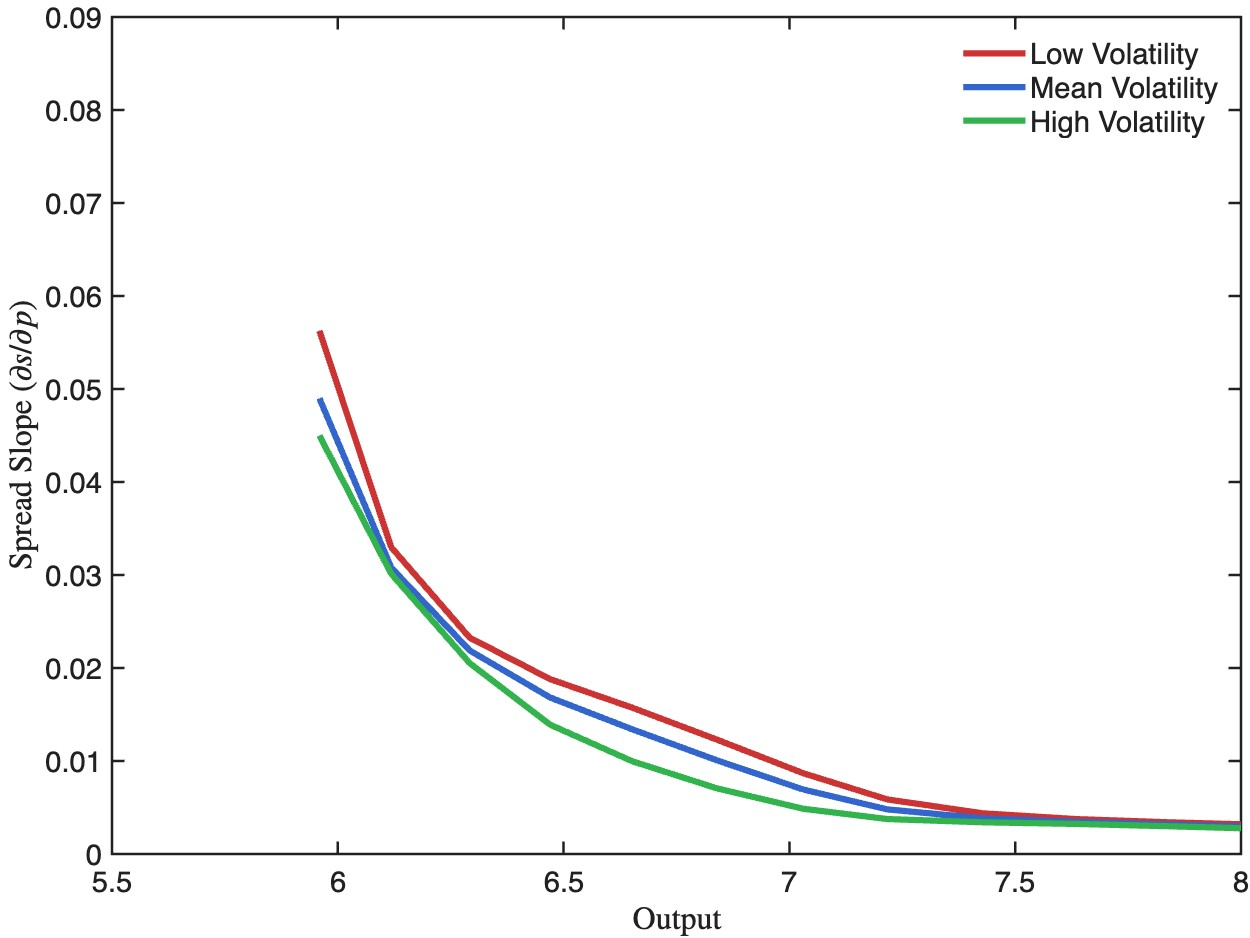
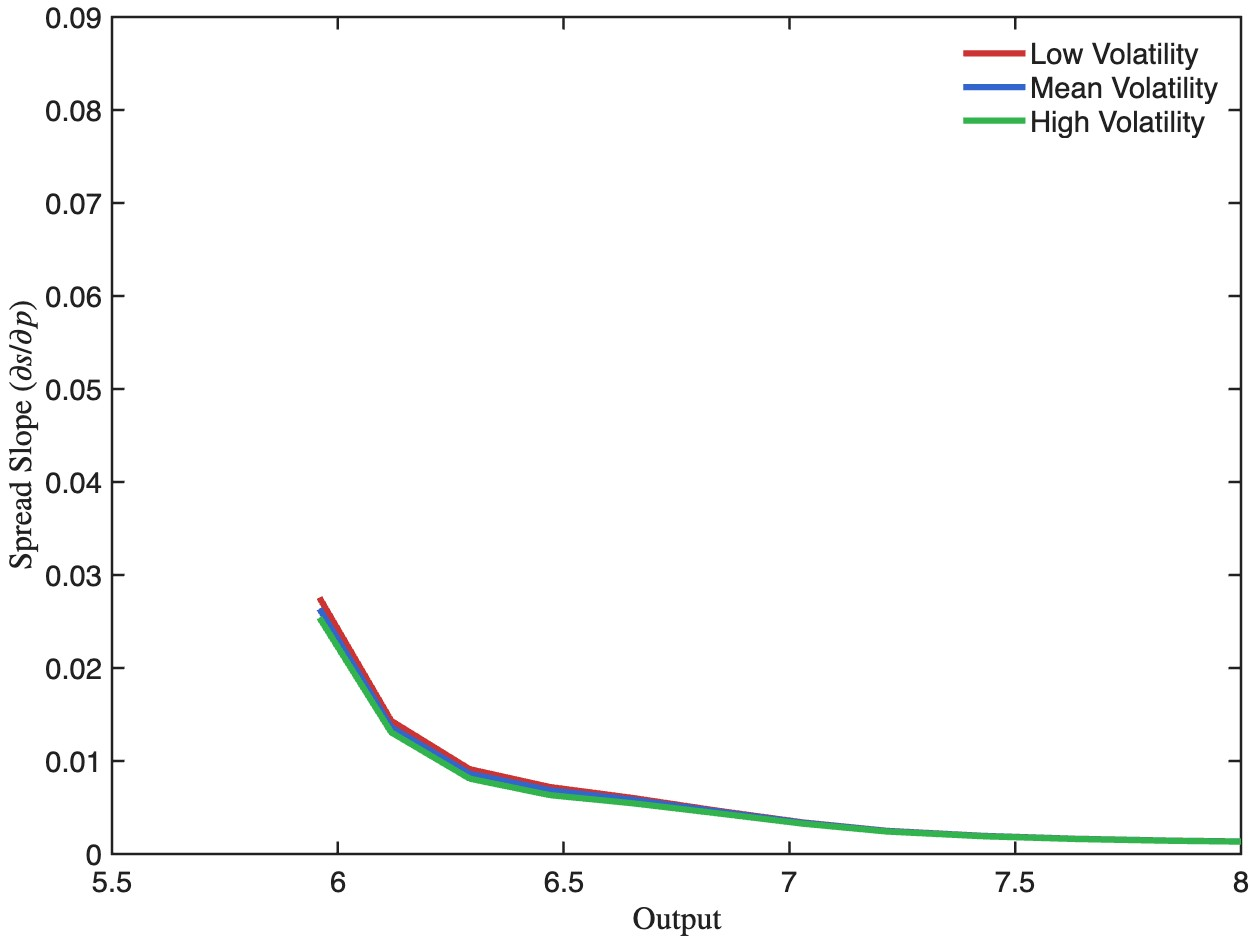
Make the low/high price-node contrast scale with the grid
Figures 3, 6a and 6b, and the dprice used for the spread slope, contrasted
price node 2 against node 6. Those bracket the grid only when p_num = 7: at
p_num = 277 they sit at 0.4% and 1.8% of the grid, both deep in the left tail.
The "low price versus high price" contrast therefore collapsed to two almost
identical very low prices, which is why the regenerated figures looked wrong and
inverted rather than merely different.

Replaced with indices defined by relative position, 16.7% and 83.3% of the grid.
At p_num = 7 these evaluate to exactly 2 and 6, so the submitted-baseline
figures remain pixel-identical; at p_num = 277 they are nodes 47 and 231. The
script now prints which nodes it used.

This was flagged early in the revision notes as a hazard of raising p_num but
was only ever fixed in the standalone slope calculations, not in the plotting
script itself. Figures regenerated.

Claude-Session: https://claude.ai/code/session_017rjGUFtN3rRvLQEeLusJ9z

Changed region(s): [[0.2496, 0.3401, 0.9984, 0.9275], [0.2496, 0.6493, 0.312, 0.7729]]

diff --git a/model/working_graphs_dec29.m b/model/working_graphs_dec29.m
@@ -87,6 +87,16 @@ b_num = length(b_grid);
 p_vol_num = length(p_vol_grid);
 p_num = length(p_grid)/p_vol_num;
 
+% Price nodes used throughout for the "low price" / "high price" contrast.
+% These were hardcoded as 2 and 6, which bracket the grid only when p_num = 7:
+% at p_num = 277 nodes 2 and 6 sit at 0.4% and 1.8% of the grid -- both deep in
+% the left tail, so the contrast collapses and every low-vs-high comparison
+% becomes meaningless. Defined by RELATIVE position instead, reducing to exactly
+% 2 and 6 when p_num = 7.
+i_p_low  = max(1,     round(1 + (1/6)*(p_num-1)));   % 16.7% of the grid
+i_p_high = min(p_num, round(1 + (5/6)*(p_num-1)));   % 83.3% of the grid
+fprintf('price-node contrast: low = %d, high = %d (of %d)\n', i_p_low, i_p_high, p_num);
+
 p_grid_matrix=reshape(p_grid, p_num, p_vol_num);
 p_grid_1_matrix=reshape(p_grid_1, p_num, p_vol_num);
 p_grid_2_matrix=reshape(p_grid_2, p_num, p_vol_num);
@@ -285,7 +295,7 @@ debt_output1=0.25*b_grid./mean_output1;
 consumption1=cons_matrix;
 value1=v_matrix;
 output1=output_matrix;
-dprice_matrix_3=exp(p_grid_3_matrix(6,:))-exp(p_grid_3_matrix(2,:));
+dprice_matrix_3=exp(p_grid_3_matrix(i_p_high,:))-exp(p_grid_3_matrix(i_p_low,:));
 dvol_matrix=exp(p_vol_grid(4))-exp(p_vol_grid(3));
 pdf_p_matrix1 = zeros(p_vol_num,p_num); %will have r across the columns, and r_vol as the different rows
 
@@ -347,7 +357,7 @@ value_full=value_full(:);
 load oil_bm.mat
 
 % Price difference for slope calculation
-dprice = exp(p_grid_3_matrix(6,3)) - exp(p_grid_3_matrix(2,3));
+dprice = exp(p_grid_3_matrix(i_p_high,3)) - exp(p_grid_3_matrix(i_p_low,3));
 
 % Mean debt index
 i_b3 = 44;
@@ -364,8 +374,8 @@ for vol_idx = 1:3
     i_vol = vol_states(vol_idx);
     
     % Spreads at low price (p=2) and high price (p=6)
-    spread_p2 = squeeze(spread_matrix(i_b3, :, 2, i_vol));
-    spread_p6 = squeeze(spread_matrix(i_b3, :, 6, i_vol));
+    spread_p2 = squeeze(spread_matrix(i_b3, :, i_p_low, i_vol));
+    spread_p6 = squeeze(spread_matrix(i_b3, :, i_p_high, i_vol));
     
     % Simple slope: ∆Spread / ∆Price
     slopes_all(:, vol_idx) = (spread_p6 - spread_p2) ./ dprice;
@@ -432,8 +442,8 @@ output_vals = cell(1, 3);
 for d_idx = 1:3
     i_b = debt_indices(d_idx);
     
-    spread_p2 = squeeze(spread_matrix(i_b, :, 2, i_vol));
-    spread_p6 = squeeze(spread_matrix(i_b, :, 6, i_vol));
+    spread_p2 = squeeze(spread_matrix(i_b, :, i_p_low, i_vol));
+    spread_p6 = squeeze(spread_matrix(i_b, :, i_p_high, i_vol));
     
     slopes_debt(:, d_idx) = (spread_p6 - spread_p2) ./ dprice;
     output_vals{d_idx} = squeeze(output_matrix(i_b, :, 4, i_vol));
@@ -508,11 +518,11 @@ i_vol_low = 2;
 i_y_mid = 11;  % Middle income level
 
 % Compute x and y values
-x_low_price_a = b_grid ./ mean(output_matrix(:, i_y_mid, 2, i_vol_low));
-y_low_price_a = b_grid(b_next_matrix(:, i_y_mid, 2, i_vol_low)) ./ mean(output_matrix(:, i_y_mid, 2, i_vol_low));
+x_low_price_a = b_grid ./ mean(output_matrix(:, i_y_mid, i_p_low, i_vol_low));
+y_low_price_a = b_grid(b_next_matrix(:, i_y_mid, i_p_low, i_vol_low)) ./ mean(output_matrix(:, i_y_mid, i_p_low, i_vol_low));
 
-x_high_price_a = b_grid ./ mean(output_matrix(:, i_y_mid, 6, i_vol_low));
-y_high_price_a = b_grid(b_next_matrix(:, i_y_mid, 6, i_vol_low)) ./ mean(output_matrix(:, i_y_mid, 6, i_vol_low));
+x_high_price_a = b_grid ./ mean(output_matrix(:, i_y_mid, i_p_high, i_vol_low));
+y_high_price_a = b_grid(b_next_matrix(:, i_y_mid, i_p_high, i_vol_low)) ./ mean(output_matrix(:, i_y_mid, i_p_high, i_vol_low));
 
 % Plot
 h1 = plot(x_low_price_a, y_low_price_a, '-', 'LineWidth', 3, 'Color', color_low_price);
@@ -546,11 +556,11 @@ figure('Position', [100, 100, 800, 600]);
 i_vol_high = 4;
 
 % Compute x and y values
-x_low_price_b = b_grid ./ mean(output_matrix(:, i_y_mid, 2, i_vol_high));
-y_low_price_b = b_grid(b_next_matrix(:, i_y_mid, 2, i_vol_high)) ./ mean(output_matrix(:, i_y_mid, 2, i_vol_high));
+x_low_price_b = b_grid ./ mean(output_matrix(:, i_y_mid, i_p_low, i_vol_high));
+y_low_price_b = b_grid(b_next_matrix(:, i_y_mid, i_p_low, i_vol_high)) ./ mean(output_matrix(:, i_y_mid, i_p_low, i_vol_high));
 
-x_high_price_b = b_grid ./ mean(output_matrix(:, i_y_mid, 6, i_vol_high));
-y_high_price_b = b_grid(b_next_matrix(:, i_y_mid, 6, i_vol_high)) ./ mean(output_matrix(:, i_y_mid, 6, i_vol_high));
+x_high_price_b = b_grid ./ mean(output_matrix(:, i_y_mid, i_p_high, i_vol_high));
+y_high_price_b = b_grid(b_next_matrix(:, i_y_mid, i_p_high, i_vol_high)) ./ mean(output_matrix(:, i_y_mid, i_p_high, i_vol_high));
 
 % Plot
 h1 = plot(x_low_price_b, y_low_price_b, '-', 'LineWidth', 3, 'Color', color_low_price);

diff --git a/results/figures_corrected/README.md b/results/figures_corrected/README.md
@@ -53,6 +53,14 @@ an identical corrected-model solve (`p_num = 25`), the original script from the
 
 Together these took a single economy from "did not finish in 2.5 hours" to **~25 seconds**.
 
+5. **Price-node indices made relative to the grid.** The "low price" / "high price"
+   contrast used in Figures 3, 6a and 6b (and in `dprice`) was hardcoded to nodes 2 and 6.
+   Those bracket the grid only at `p_num = 7`; at `p_num = 277` they sit at **0.4% and
+   1.8%** of the grid, both deep in the left tail, so the contrast collapses and the
+   low-vs-high comparison becomes meaningless. Now defined by relative position
+   (16.7% and 83.3%), which reduces to exactly 2 and 6 when `p_num = 7` -- verified, the
+   baseline figures stay pixel-identical -- and gives nodes **47 and 231** at `p_num = 277`.
+
 One substantive edit, not output-neutral and documented in the script: FIGURE2's
 intermediate series is indexed `squeeze(spread2(:,11,4,1))`. The corrected
 constant-volatility economy carries `p_vol_num = 5` with all states identical (rather than
